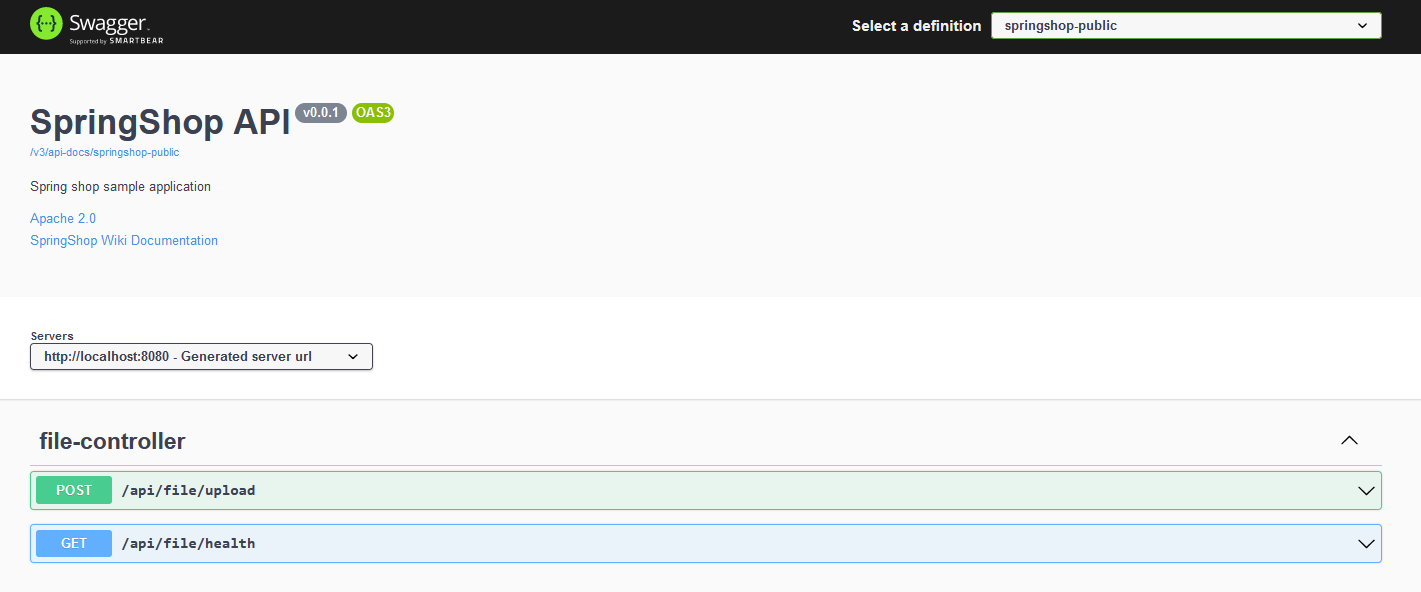
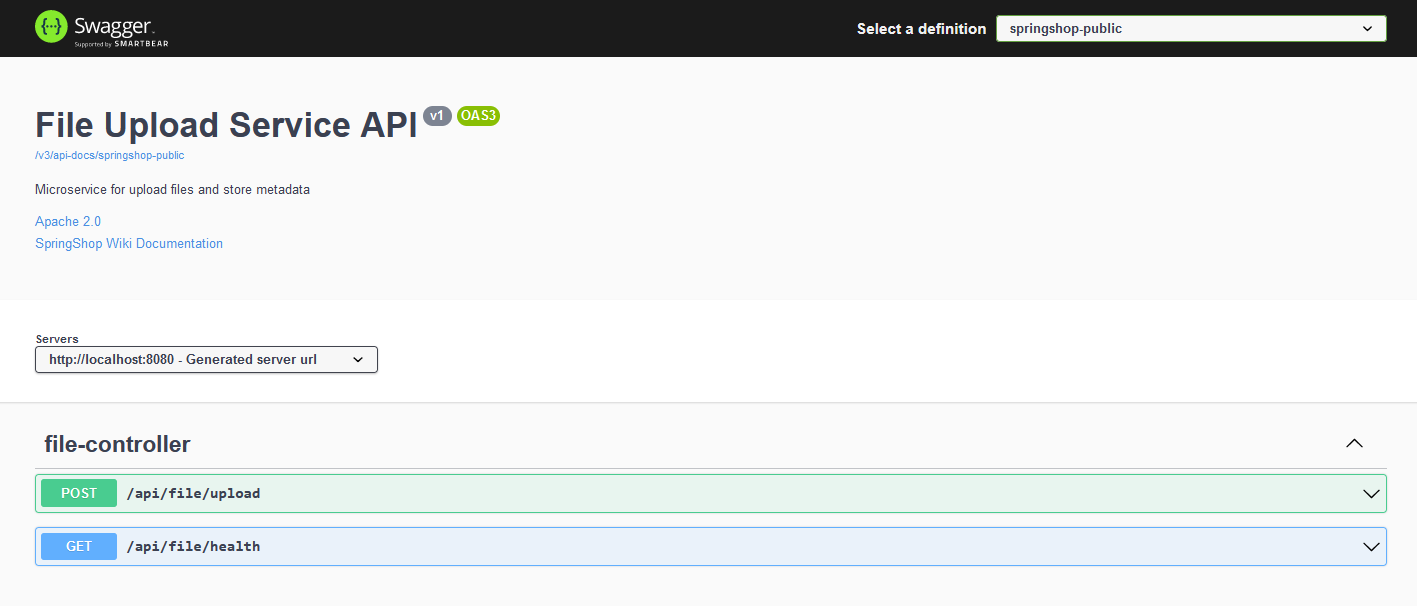
UPDATE: Swagger config updated.

diff --git a/src/main/java/com/ctse/assignment/config/SwaggerConfig.java b/src/main/java/com/ctse/assignment/config/SwaggerConfig.java
@@ -6,7 +6,6 @@ import io.swagger.v3.oas.models.info.License;
 import org.springdoc.core.GroupedOpenApi;
 import org.springframework.context.annotation.Bean;
 import org.springframework.context.annotation.Configuration;
-
 import java.util.Collections;
 
 @Configuration
@@ -22,9 +21,9 @@ public class SwaggerConfig {
     @Bean
     public OpenAPI springShopOpenAPI() {
         return new OpenAPI()
-                .info(new Info().title("SpringShop API")
-                        .description("Spring shop sample application")
-                        .version("v0.0.1")
+                .info(new Info().title("File Upload Service API")
+                        .description("Microservice for upload files and store metadata")
+                        .version("v1")
                         .license(new License().name("Apache 2.0").url("http://springdoc.org")))
                 .externalDocs(new ExternalDocumentation()
                         .description("SpringShop Wiki Documentation")
